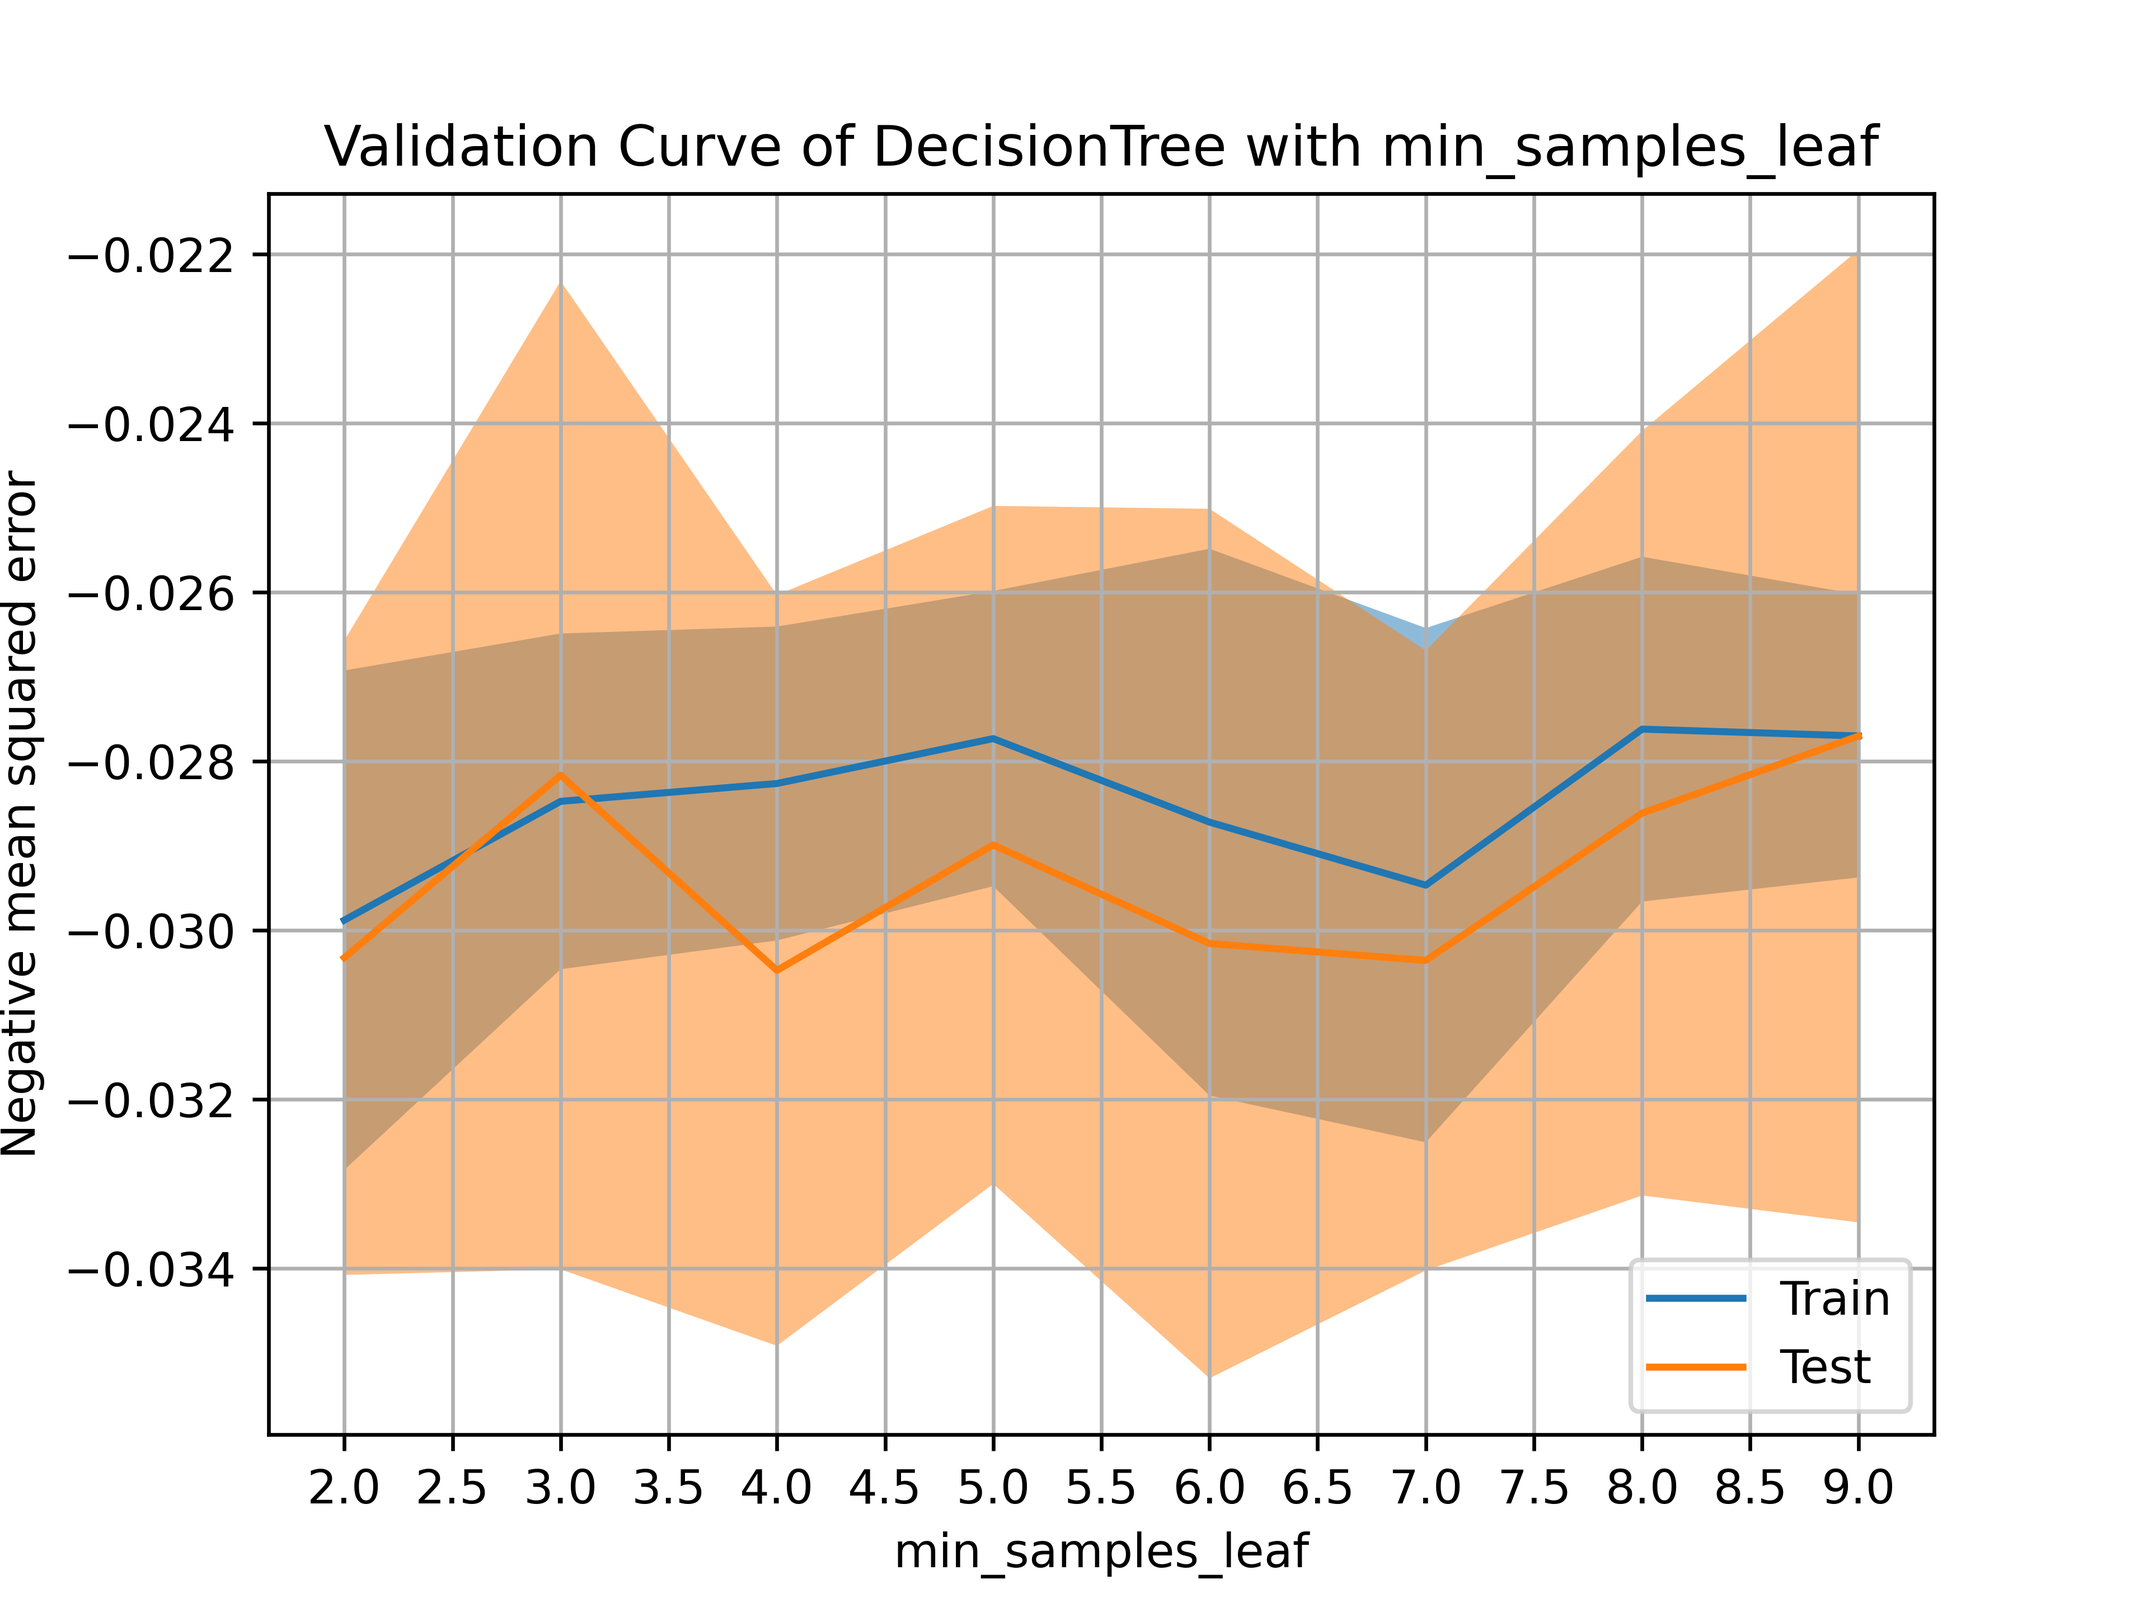
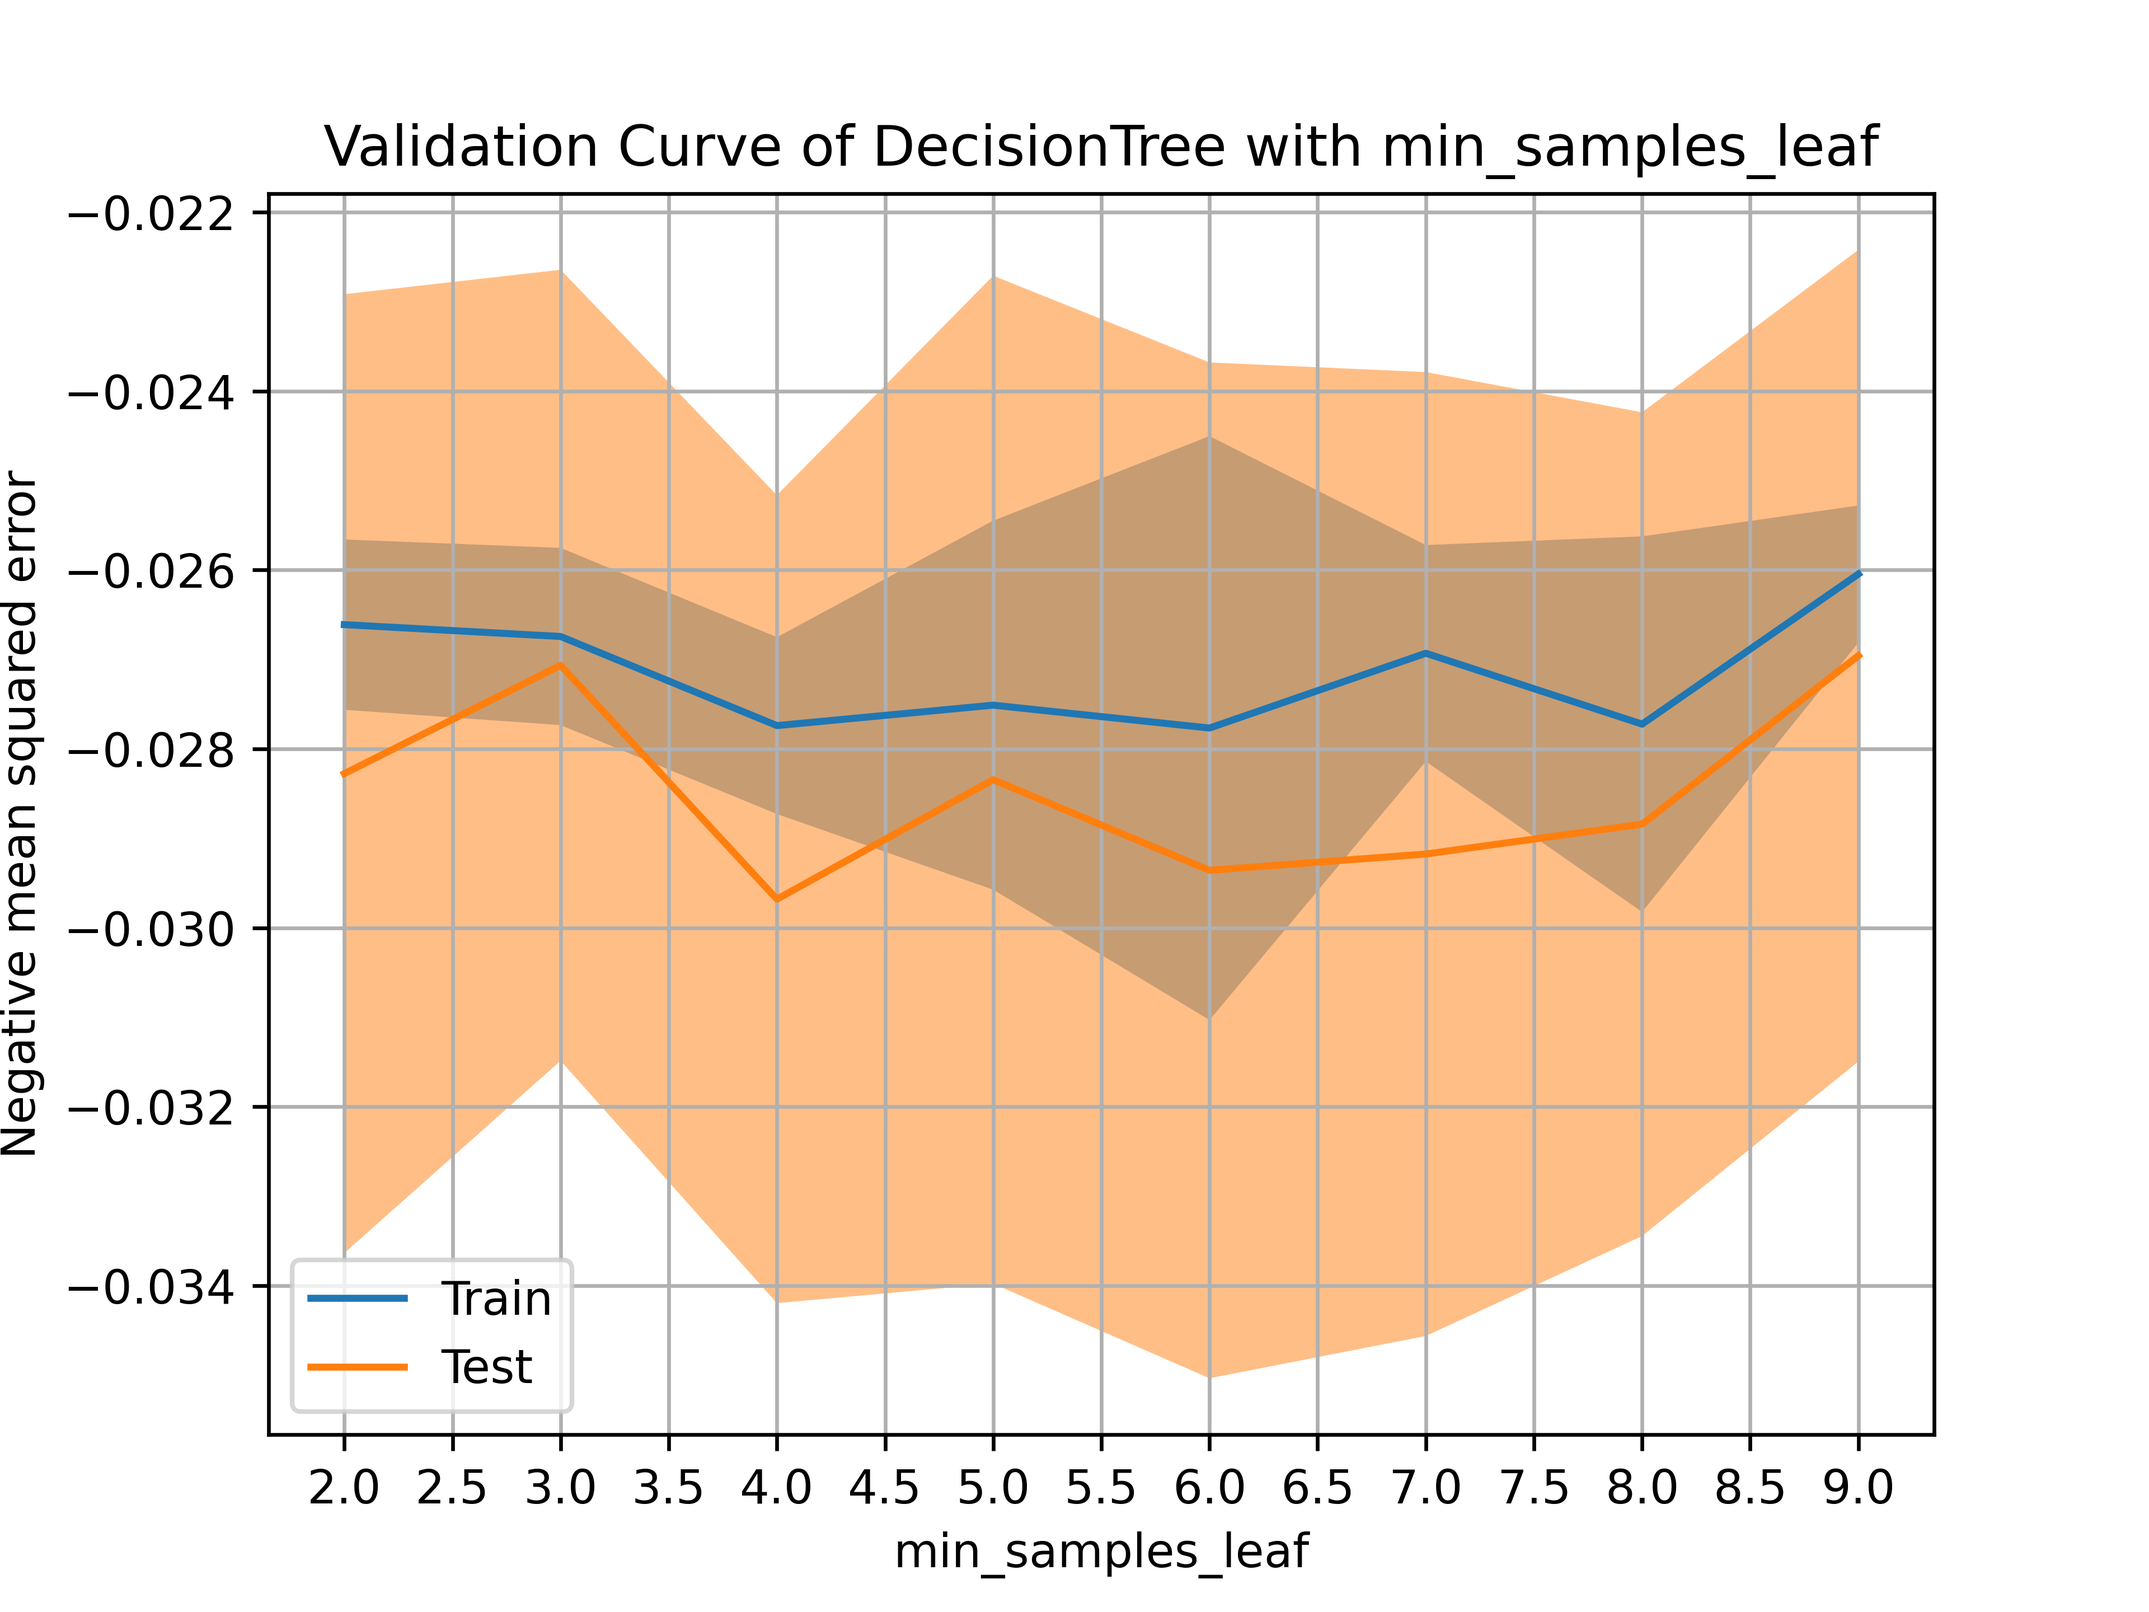
Update dashboard

diff --git a/app.py b/app.py
@@ -3,12 +3,16 @@ import pandas as pd
 import matplotlib.pyplot as plt
 import seaborn as sns
 import plotly.express as px
+import plotly.figure_factory as ff
+from scipy.stats import gaussian_kde
+import plotly.graph_objects as go
+import numpy as np
 import pickle
     # Load the model
 model = pickle.load(open("model/DecisionTree_regression.pkl", "rb"))
 
 df = pd.read_csv("dataset/communities_and_crime.csv")
-df_state = pd.read_csv("dataset/state_grouped_crime.csv")
+df_state = pd.read_csv("dataset/state_summary.csv")
 st.title("Communities and Crime Dashboard")
 st.subheader("📌 Overview KPIs")
 
@@ -34,108 +38,176 @@ col4.metric("Highest Crime State", highest_state)
 col5.metric("Lowest Crime State", lowest_state)
 
 
-st.subheader("US State Population Distribution")
+df_state["Unnormalized population %"] = (
+    df_state["population"] / df_state["population"].sum() * 100
+).round(2)
 
-fig = px.choropleth(
+st.subheader("US State Population Distribution")
+fig_population = px.choropleth(
     df_state,
-    locations="statename",  # Must be state abbreviations like 'CA'
+    locations="statename",           
+    locationmode="USA-states",       
+    color="population",        
+    hover_name="full state name",
+    hover_data={
+        "statename": False,        
+        "population": ":,.0f",
+        "Unnormalized population %": ":.2f",
+    },
+    scope="usa",                     
+    color_continuous_scale="Blues",   
+    title="State Population Choropleth"
+)
+
+fig_crime = px.choropleth(
+    df_state,
+    locations="statename", 
     locationmode="USA-states",
-    color="ViolentCrimesPerPop",  # Color by violent crimes
+    color="ViolentCrimesPerPop", 
     hover_name="full state name",
     hover_data={
         "ViolentCrimesPerPop": True,
         "statename": False
     },
     scope="usa",
-    color_continuous_scale="Reds"  # Red tones
+    color_continuous_scale="Reds",
+    title="Crime Distribution Choropleth"
 )
 
-st.plotly_chart(fig, use_container_width=True)
-
-# Demographics distributions
-demo_cols = ["racepctblack", "racePctWhite", "PctPopUnderPov", "PctUnemployed"]
+st.plotly_chart(fig_population, use_container_width=True)
+st.plotly_chart(fig_crime, use_container_width=True)
 
 st.subheader("👥 Demographic Distributions")
-# for col in demo_cols:
-#     fig = px.histogram(df, x=col, nbins=50, title=f"Distribution of {col}")
-#     st.plotly_chart(fig, use_container_width=True)
+st.subheader("Bar Chart of Normalized White Percentages by State")
 
-# # Correlation of demographics with crime rate
-# st.write("### Correlation with Violent Crime Rate")
-# for col in demo_cols:
-#     fig = px.scatter(df, x=col, y="ViolentCrimesPerPop",
-#                      trendline="ols",
-#                      title=f"{col} vs Violent Crime Rate")
-#     st.plotly_chart(fig, use_container_width=True)
+fig1 = px.bar(
+    df_state.sort_values("racePctWhite", ascending=False),
+    hover_name="full state name",
+    x="statename",
+    y="racePctWhite",
+    color="racePctWhite",
+    color_continuous_scale="Blues",
+    title="Percentage of Caucasian by State (racePctWhite)"
+)
+fig1.update_layout(xaxis_title="State", yaxis_title="Normalized White %")
 
-st.write("### Racial Composition (Average Across Communities)")
+st.plotly_chart(fig1, use_container_width=True)
 
-# Calculate average racial composition
-avg_white = df["racePctWhite"].mean()
-avg_black = df["racepctblack"].mean()
 
-# Put in a DataFrame for plotting
-race_df = pd.DataFrame({
-    "Race": ["White", "Black"],
-    "Percentage": [avg_white, avg_black]
-})
-# Convert to percent with 2 decimal places
-race_df["Percentage"] = race_df["Percentage"] * 100
-race_df["Percentage"] = race_df["Percentage"].round(2)
+st.subheader("Bar Chart of Normalized Black Percentages by State")
+fig2 = px.bar(
+    df_state.sort_values("racepctblack", ascending=False),
+    hover_name="full state name",
+    x="statename",
+    y="racepctblack",
+    color="racepctblack",
+    color_continuous_scale="Blues",
+    title="Percentage of African American by State (racepctblack)"
+)
+fig2.update_layout(xaxis_title="State", yaxis_title="Normalized Black %")
 
-# Pie chart (deep blue shades)
-fig = px.pie(
-    race_df, 
-    names="Race", 
-    values="Percentage",
-    title="Average Racial Composition (White vs Black)",
-    color="Race",
-    color_discrete_map={
-        "White": "#87ceeb",  # dark red
-        "Black": "#0d47a1"   # lighter red
-    }
+st.plotly_chart(fig2, use_container_width=True)
+
+st.subheader("Density of racePctWhite vs racepctblack")
+x_white = df["racePctWhite"]
+x_black = df["racepctblack"]
+
+kde_white = gaussian_kde(x_white)
+kde_black = gaussian_kde(x_black)
+
+x_range = np.linspace(0, max(x_white.max(), x_black.max()), 200)
+
+# Create traces
+trace_white = go.Scatter(
+    x=x_range,
+    y=kde_white(x_range),
+    fill='tozeroy',             # fill area under the curve
+    fillcolor='rgba(13,71,161,0.5)',  # blue with 50% transparency
+    line=dict(color='rgba(13,71,161,1)'),
+    name='racePctWhite'
 )
 
-# Show percent labels inside
-fig.update_traces(
-    textinfo="label+percent",
-    texttemplate="%{label}: %{value:.2f}%"  # show values with 2 decimal points
+trace_black = go.Scatter(
+    x=x_range,
+    y=kde_black(x_range),
+    fill='tozeroy', 
+    fillcolor='rgba(135,206,235,0.5)',  # light blue / purple-like color
+    line=dict(color='rgba(135,206,235,1)'),
+    name='racepctblack'
+)
+
+# Combine traces
+fig = go.Figure([trace_white, trace_black])
+fig.update_layout(
+    title="Density of racePctWhite vs racepctblack",
+    xaxis_title="Percentage (normalized)",
+    yaxis_title="Density",
+    template="simple_white"
 )
 
 st.plotly_chart(fig, use_container_width=True)
 
-df_state["WhitePop"] = df_state["Unnormalized population"] * df_state["racePctWhite"]
-df_state["BlackPop"] = df_state["Unnormalized population"] * df_state["racepctblack"]
+st.subheader("📊 Socioeconomic Indicators")
 
-# Select only needed columns
-plot_df = df_state[["statename", "WhitePop", "BlackPop"]].set_index("statename")
+socio_cols = ["PctIlleg", "PctUnemployed", "PctPopUnderPov", "PctKids2Par"]
+socio_description = ["Percentage of Kids Born to Never Married",
+                     "Percentage of People Unemployed", 
+                     "Percentage of People Under the Poverty Level", 
+                     "Percentage of Kids in with Two Parents"]
 
-st.write("### Stacked Histogram of White vs Black Population by State")
+for col, desc in zip(socio_cols, socio_description):
+    fig = px.histogram(
+        df,
+        x=col,
+        nbins=30,
+        title=f"Distribution of {desc} ({col})",
+        color_discrete_sequence=["#1f77b4"],
+        opacity=0.7
+    )
+    fig.update_traces(marker=dict(line=dict(width=1, color="black")))  # bar borders
+    fig.update_layout(
+        bargap=0.05,
+        xaxis_title=col,
+        yaxis_title="Count",
+        template="plotly_white"
+    )
+    st.plotly_chart(fig, use_container_width=True)
 
-# Plot stacked bar chart
-fig, ax = plt.subplots(figsize=(12, 6))
-plot_df.plot(kind="bar", stacked=True, ax=ax, color=["#0d47a1", "#87ceeb"])
 
-ax.set_ylabel("Population")
-ax.set_xlabel("State")
-ax.set_title("White vs Black Population by State")
-ax.legend(["White Population", "Black Population"])
+st.subheader("🏠 Housing Conditions")
 
-st.pyplot(fig)
+housing_cols = ["HousVacant", "PctPersDenseHous"]
+housing_description = ["Number of Vacant Households", 
+                     "Percent of Persons in Dense Housing"]
 
+for col, desc in zip(housing_cols, housing_description):
+    fig = px.histogram(
+        df,
+        x=col,
+        nbins=30,
+        title=f"Distribution of {desc} ({col})",
+        color_discrete_sequence=["#1f77b4"],
+        opacity=0.7
+    )
+    fig.update_traces(marker=dict(line=dict(width=1, color="black")))
+    fig.update_layout(
+        bargap=0.05,
+        xaxis_title=col,
+        yaxis_title="Count",
+        template="plotly_white"
+    )
+    st.plotly_chart(fig, use_container_width=True)
 
 st.subheader("📈 Model Insights")
-
-# ===== Feature Importance =====
 st.write("### Feature Importance")
 if hasattr(model, 'feature_importances_'):
     try:
         feature_names = [
-            "PctKids2Par", "PctPersDenseHous", "PctIlleg", "NumStreet",
-            "racepctblack", "HousVacant", "MalePctDivorce", "RentLowQ",
-            "pctWInvInc"
+            "PctPersDenseHous", "PctKids2Par", "HousVacant", "racepctblack", 
+            "PctIlleg"
         ]
         importances = model.feature_importances_
+        print(importances)
         fi = pd.DataFrame({"Feature": feature_names, "Importance": importances})
         fi = fi.sort_values("Importance", ascending=False)
 
@@ -147,7 +219,7 @@ if hasattr(model, 'feature_importances_'):
 else:
     st.warning("⚠ This model does not provide feature importance.")
 
-# ===== Interactive Sliders =====
+
 st.write("### 🔍 Explore What-if Scenarios")
 st.markdown("Adjust the sliders to simulate different conditions:")
 
@@ -155,46 +227,33 @@ st.markdown("Adjust the sliders to simulate different conditions:")
 PctKids2Par = st.slider("Percentage of kids in family housing with two parents (PctKids2Par)", 0.0, 1.0, 0.7)
 PctPersDenseHous = st.slider("Percentage of persons in dense housing (PctPersDenseHous)", 0.0, 1.0, 0.1)
 PctIlleg = st.slider("Percentage of kids born to never married (PctIlleg)", 0.0, 1.0, 0.1)
-NumStreet = st.slider("Number of people living in areas classified as urban (NumStreet)", 0.0, 1.0, 0.1)
 racepctblack = st.slider("Percentage of population that is African American (racepctblack)", 0.0, 1.0, 0.1)
 HousVacant = st.slider("Number of vacant households (HousVacant)", 0.0, 1.0, 0.05)
-MalePctDivorce = st.slider("Percentage of males who are divorced (MalePctDivorce)", 0.0, 1.0, 0.1)
-RentLowQ = st.slider("Lower quartile of rent (RentLowQ)", 0.0, 1.0, 0.2)
-pctWInvInc = st.slider("Percentage of households with investment / rent income in 1989 (pctWInvInc)", 0.0, 1.0, 0.05)
 
 # Put into DataFrame for prediction
 X_new = pd.DataFrame([[
-    PctKids2Par,
     PctPersDenseHous,
-    PctIlleg,
-    NumStreet,
-    racepctblack,
+    PctKids2Par,
     HousVacant,
-    MalePctDivorce,
-    RentLowQ,
-    pctWInvInc
+    racepctblack,
+    PctIlleg,
 ]], columns=[
-    "PctKids2Par",
     "PctPersDenseHous",
-    "PctIlleg",
-    "NumStreet",
-    "racepctblack",
+    "PctKids2Par",
     "HousVacant",
-    "MalePctDivorce",
-    "RentLowQ",
-    "pctWInvInc"
+    "racepctblack",
+    "PctIlleg",
 ])
 
-# Predict button
 if st.button("Predict"):
     pred = model.predict(X_new)[0]
-    st.success(f"🔮 Predicted Violent Crime Rate: **{pred:.3f}**")
+    st.success(f"🔮 Predicted Violent Crime Rate: **{pred * 100:.2f}%**")
 
-# ===== Summary & Recommendations =====
 st.write("### 📝 Summary & Recommendations")
 st.markdown("""
-- **Higher % of kids with two parents → lower violent crime.**  
-- **More vacant households → higher violent crime risk.**  
-- **Higher % of investment income households → lower violent crime.**  
-- **Higher % of persons in dense housing → potential increase in crime risk.**
+- **Higher % of kids in two-parent households (PctKids2Par) → lower violent crime risk.**  
+- **Higher % of persons in dense housing (PctPersDenseHous) → potential increase in violent crime.**  
+- **Higher % of kids born to unmarried parents (PctIlleg) → associated with higher violent crime risk.**  
+- **Higher % of African American population (racepctblack) → may correlate with crime in the dataset, but be cautious as this may reflect systemic bias rather than true causation.**  
+- **More vacant households (HousVacant) → higher violent crime risk.**  
 """)

diff --git a/validation_curve.py b/validation_curve.py
@@ -36,22 +36,23 @@ if __name__ == "__main__":
         #         'epsilon': np.arange(0.01, 0.2, 0.005)
         #     }
         # },
-        # {
-        #     'name': 'DecisionTree',
-        #     'model':  DecisionTreeRegressor(max_depth=2, min_samples_leaf=5, min_samples_split=8, max_features='log2'),
-        #     'params': {
-        #         'max_depth': np.arange(1, 10, 1),            # tree depth from 1 to 20
-        #         'min_samples_split': np.arange(2, 10, 1),    # node split requirement
-        #         'min_samples_leaf': np.arange(2, 10, 1),     # leaf size
-        #     }
-        # },
+        {
+            'name': 'DecisionTree',
+            'model':  DecisionTreeRegressor(max_depth=2, min_samples_leaf=5, min_samples_split=8, max_features='log2'),
+            'params': {
+                'max_depth': np.arange(1, 10, 1),            # tree depth from 1 to 20
+                'min_samples_split': np.arange(2, 10, 1),    # node split requirement
+                'min_samples_leaf': np.arange(2, 10, 1),     # leaf size
+            }
+        },
         {
             'name': 'KNearestNeigbours',
             'model':  KNeighborsRegressor(),
             'params': {
-                'n_neighbors': np.arange(1, 50, 1),
+                'C': np.arange(0.01, 1, 0.05),
+                'epsilon': np.arange(0.01, 0.2, 0.005)
             }
-        }
+        },
     ]
 
     for model in models:

diff --git a/decision_tree.py b/decision_tree.py
@@ -10,8 +10,8 @@ if __name__ == "__main__":
     param_grid = {
         'criterion': ['squared_error', 'friedman_mse', 'absolute_error'],  
         'max_depth': [2], # [None, 5, 10, 20]
-        'min_samples_split': [5], #[8, 9, 10]
-        'min_samples_leaf': [8], # [2, 3, 4]
+        'min_samples_split': [4], #[8, 9, 10]
+        'min_samples_leaf': [3], # [2, 3, 4]
         'max_features': [None, 'sqrt', 'log2'],
     }
 
